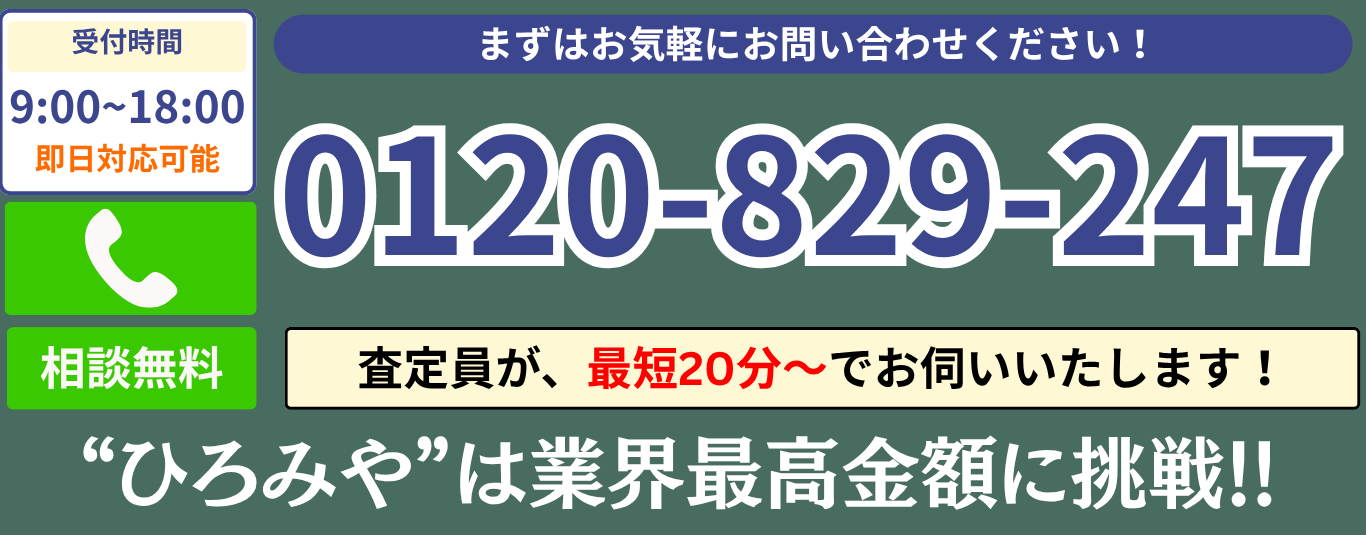
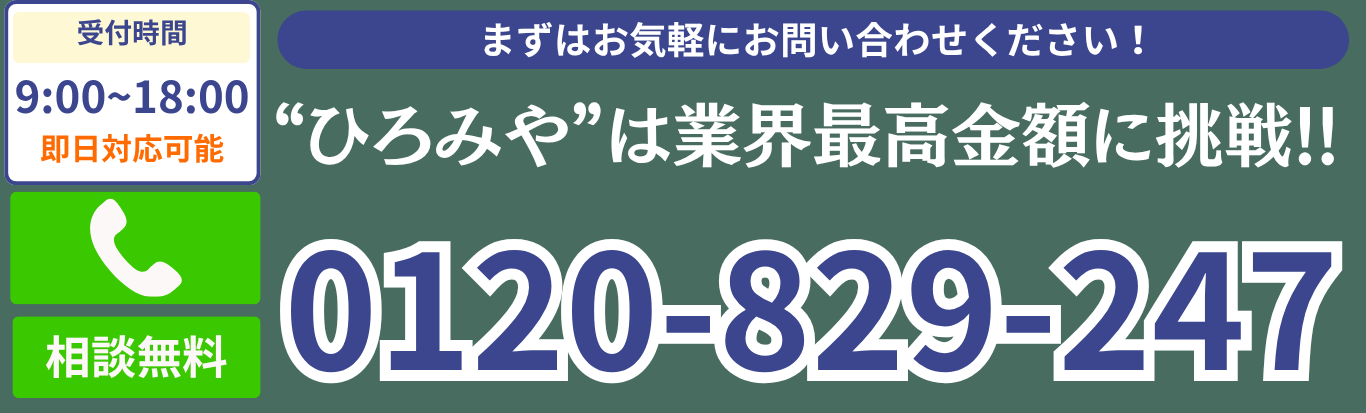
追加修正　2026/03/21

diff --git a/index.html b/index.html
@@ -32,15 +32,16 @@
 
 <body>
 
-	<section class="heroParent">
+	<section class="heroParent" id="home">
 		<div class="hero2">
 			<div class="hero2__image-container hero2__pc">
-				<img src="img/hiroubmiyaHero.png" alt="ひろみやのメインヒーロー画像">
-				<a href="tel:0120-829-247"><img src="img/hiroubmiyaHero_number.png" alt="ひろみやのメインヒーロー画像"></a> 
+				<img src="img/hiromiyaHero.png" alt="ひろみやのメインヒーロー画像">
+				<a href="tel:0120-829-247"><img src="img/hiromiya_phone_number.png" alt="ひろみやのメインヒーロー画像"></a>
 			</div>
 			<div class="hero2__image-container hero2__phone">
 				<img src="img/hiromiya_phone.png" alt="ひろみやのメインヒーロー画像">
-				<a href="tel:0120-829-247" style="margin: 0; padding: 0; "><img src="img/hiromiya_phone_number.png" alt="ひろみやのメインヒーロー画像"></a>
+				<a href="tel:0120-829-247" style="margin: 0; padding: 0; "><img src="img/hiromiya_phone_number.png"
+						alt="ひろみやのメインヒーロー画像"></a>
 			</div>
 		</div>
 	</section>
@@ -49,19 +50,19 @@
 		<div class="jissekiKensu__image-wrapper">
 			<img src="img/cta_33.png" class="cta_33">
 			<img src="img/cta_imitation.png" class="advertisments">
-			<img src="img/advertisments.png" class="advertisments">
 		</div>
 	</section>
 
-	<section class="callToAction">
+	<section class="callToAction" id="contact">
 		<div class="callToAction__img">
-			<a href="tel:0120-829-247"><img src="img/cta_nunmber.png" class="callToAction__img-hiromi" id="callToAction__img-hiromi"></a>
+			<a href="tel:0120-829-247"><img src="img/cta_nunmber.png" class="callToAction__img-hiromi"
+					id="callToAction__img-hiromi"></a>
 		</div>
 	</section>
 
 
 	<!-- 買取サービス -->
-	<section class="services" id="service">
+	<section class="services" id="services">
 		<img src="img/service_title.png" class="service_title">
 		<div class="service-container">
 			<div class="service-item">
@@ -91,12 +92,12 @@
 		<div class="step-container">
 			<div class="step">
 				<h2>
-					<p class="step__number">01.</p>お電話で無料申込み
+					<p class="step__number">01.</p>お品物のご用意
 				</h2>
 				<div class="step__items">
 					<img src="img/moshikomi.png" alt="電話お申込み">
 					<div class="step__item">
-						<p class="step__item-description">Webまたはお電話で<br>簡単申込！</p>
+						<p class="step__item-description">査定希望のお品物を<span class="pc-br"></span>ご用意ください</p>
 						<a href="tel:0120829247" class="purchase__button-bottom">電話でお申込</a>
 					</div>
 				</div>
@@ -105,12 +106,12 @@
 			<!-- STEP 2 -->
 			<div class="step">
 				<h2>
-					<p class="step__number">02.</p>プロの鑑定士がご訪問
+					<p class="step__number">02.</p>会場にてお申し込み
 				</h2>
 				<div class="step__items">
-					<img src="img/houmon.png" alt="電話お申込み">
+					<img src="img/kaijou.png" alt="電話お申込み">
 					<div class="step__item">
-						<p class="step__item-description">プロの鑑定士が<br>即日ご自宅にご訪問します</p>
+						<p class="step__item-description">会場にて査定のお申し込み<span class="pc-br"></span>をお願い致します</p>
 					</div>
 				</div>
 			</div>
@@ -119,12 +120,12 @@
 			<!-- STEP 3 -->
 			<div class="step">
 				<h2>
-					<p class="step__number">03.</p>その場で即査定
+					<p class="step__number">03.</p>鑑定士によるお査定
 				</h2>
 				<div class="step__items">
 					<img src="img/apprasial.png" alt="電話お申込み">
 					<div class="step__item">
-						<p class="step__item-description">お品物をその場で1点1点<br>丁寧にお査定いたします</p>
+						<p class="step__item-description">プロの鑑定士が会場にて<span class="pc-br"></span>お査定させて頂きます</p>
 					</div>
 				</div>
 			</div>
@@ -138,13 +139,13 @@
 				<div class="step__items">
 					<img src="img/transactionConplete.png" alt="電話お申込み">
 					<div class="step__item">
-						<p class="step__item-description">お買取が成立しましたら、<br>現金をお渡しいたします</p>
+						<p class="step__item-description">お買取が成立いたしましたら<span class="pc-br"></span>その場で現金をお渡し致します</p>
 					</div>
 				</div>
 			</div>
 		</div>
 	</section>
-	
+
 
 	<section class="jissekiKensu">
 		<div class="jissekiKensu__image-wrapper">
@@ -648,7 +649,8 @@
 
 	<section class="callToAction">
 		<div class="callToAction__img">
-			<a href="tel:0120-829-247"><img src="img/cta_nunmber.png" class="callToAction__img-hiromi" id="callToAction__img-hiromi"></a>
+			<a href="tel:0120-829-247"><img src="img/cta_nunmber.png" class="callToAction__img-hiromi"
+					id="callToAction__img-hiromi"></a>
 		</div>
 	</section>
 
@@ -785,7 +787,7 @@
 				<p class="purchase-price">210,000円</p>
 			</div>
 			<div class="purchase-item">
-				<div class="purchase-badge">お酒</div>
+				<div class="purchase-badge">高価買取</div>
 				<img src="instruments/alchol.png" alt="ジュエリー">
 				<p class="purchase-name">お酒</p>
 				<p class="purchase-price-label">買取価格</p>
@@ -824,45 +826,45 @@
 			<div class="reviews-container">
 				<div class="review-card">
 					<div class="review-title-container">
-						<img src="img/customer1.png" class="review-title__img">
+						<img src="img/customer1.jpg" class="review-title__img">
 						<div class="review-tilte__text">
-							<p class="review-location">50代男性</p>
-							<p class="review-stars">金の買取<br> ★★★★☆</p>
+							<p class="review-location">80代男性</p>
+							<p class="review-stars">タンス<br> ★★★★☆</p>
 						</div>
 					</div>
 					<p class="review-text">
-						昔購入した金のインゴットを売却しようと考えていたところ、広告を見て依頼しました。
-						相場を丁寧に説明 してくれたので、安心して取引できました。
-						査定額にも満足しており、また機会があればお願いしたいです！
+						大型のタンスの買取依頼させていただき、
+						想像より高い値段で、送料や査定料も一切かからず、とても大満足です。
+						最初は本当に買い取ってくれるのか不安でしたが、当日来ていただいたスタッフさんが丁寧に説明と、査定してくれました。
+						また機会がありましたら、よろしくお願いいたします。
 					</p>
 				</div>
 				<div class="review-card">
 					<div class="review-title-container">
-						<img src="img/customer2.png" class="review-title__img">
-						<div class="review-tilte__text">
-							<p class="review-location">60代女性</p>
-							<p class="review-stars">アクセサリー類整理<br> ★★★★★</p>
-						</div>
-					</div>
-					<p class="review-text">
-						使わなくなったネックレスや指輪を整理しようと思い、相談しました。
-						自宅まで来ていただき、査定もスムーズで納得の価格で買い取ってもらえました！
-						古いデザインのものでもしっかり評価してもらえたのが嬉しかったです。
-					</p>
-				</div>
-				<div class="review-card">
-					<div class="review-title-container">
-						<img src="img/customer2.png" class="review-title__img">
+						<img src="img/customer2.jpg" class="review-title__img">
 						<div class="review-tilte__text">
 							<p class="review-location">70代女性</p>
-							<p class="review-stars">楽器や時計<br> ★★★★★</p>
+							<p class="review-stars">ブラウン管<br> ★★★★★</p>
 						</div>
 					</div>
 					<p class="review-text">
-						売れるのか分からなかった楽器や電池が切れた時計なども買い取っていただけまし
-						た。丁寧に査定いただき大変ありがとうございました！
+						ずっと居間に置いてあったブラウン管のテレビを処分しようと思っていたのですが、処分方法がわからず、置きっぱなしになってあったものを買い取ってもらえて、大満足です。
+						電話した次の日に、スタッフさんが来てくれてその場で現金買取していただけました。
 					</p>
 				</div>
+				<!--				<div class="review-card">-->
+				<!--					<div class="review-title-container">-->
+				<!--						<img src="img/customer2.png" class="review-title__img">-->
+				<!--						<div class="review-tilte__text">-->
+				<!--							<p class="review-location">70代女性</p>-->
+				<!--							<p class="review-stars">楽器や時計<br> ★★★★★</p>-->
+				<!--						</div>-->
+				<!--					</div>-->
+				<!--					<p class="review-text">-->
+				<!--						売れるのか分からなかった楽器や電池が切れた時計なども買い取っていただけまし-->
+				<!--						た。丁寧に査定いただき大変ありがとうございました！-->
+				<!--					</p>-->
+				<!--				</div>-->
 			</div>
 		</section>
 	</section>
@@ -876,10 +878,11 @@
 	<section class="company-section">
 		<div class="container">
 			<h2 class="section-title">会社概要</h2>
-			<p class="section-subtitle">
-				ひろみやは不用品を誰かの"ほしい"に変えられる企業を目指しています
-			</p>
 			<table class="company-table">
+				<tr>
+					<th>会社名</th>
+					<td>株式会社レトリティ</td>
+				</tr>
 				<tr>
 					<th>本社</th>
 					<td>〒108-0073 東京都港区三田1-11-22 1F</td>

diff --git a/css/purchase-step.css b/css/purchase-step.css
@@ -236,12 +236,23 @@
 	background-color: #00B200;
 }
 
+.pc-br {
+  display: none;
+}
+
+
 /* PC用 横並びに変更 */
 @media (min-width: 768px) {
 	.cta-button-group {
 		flex-direction: row;
 		justify-content: center;
 		width: 80%;
+	}
+	.only_phone{
+		display: none;
+	}
+	.pc-br {
+	  display: block;
 	}
 
 }
